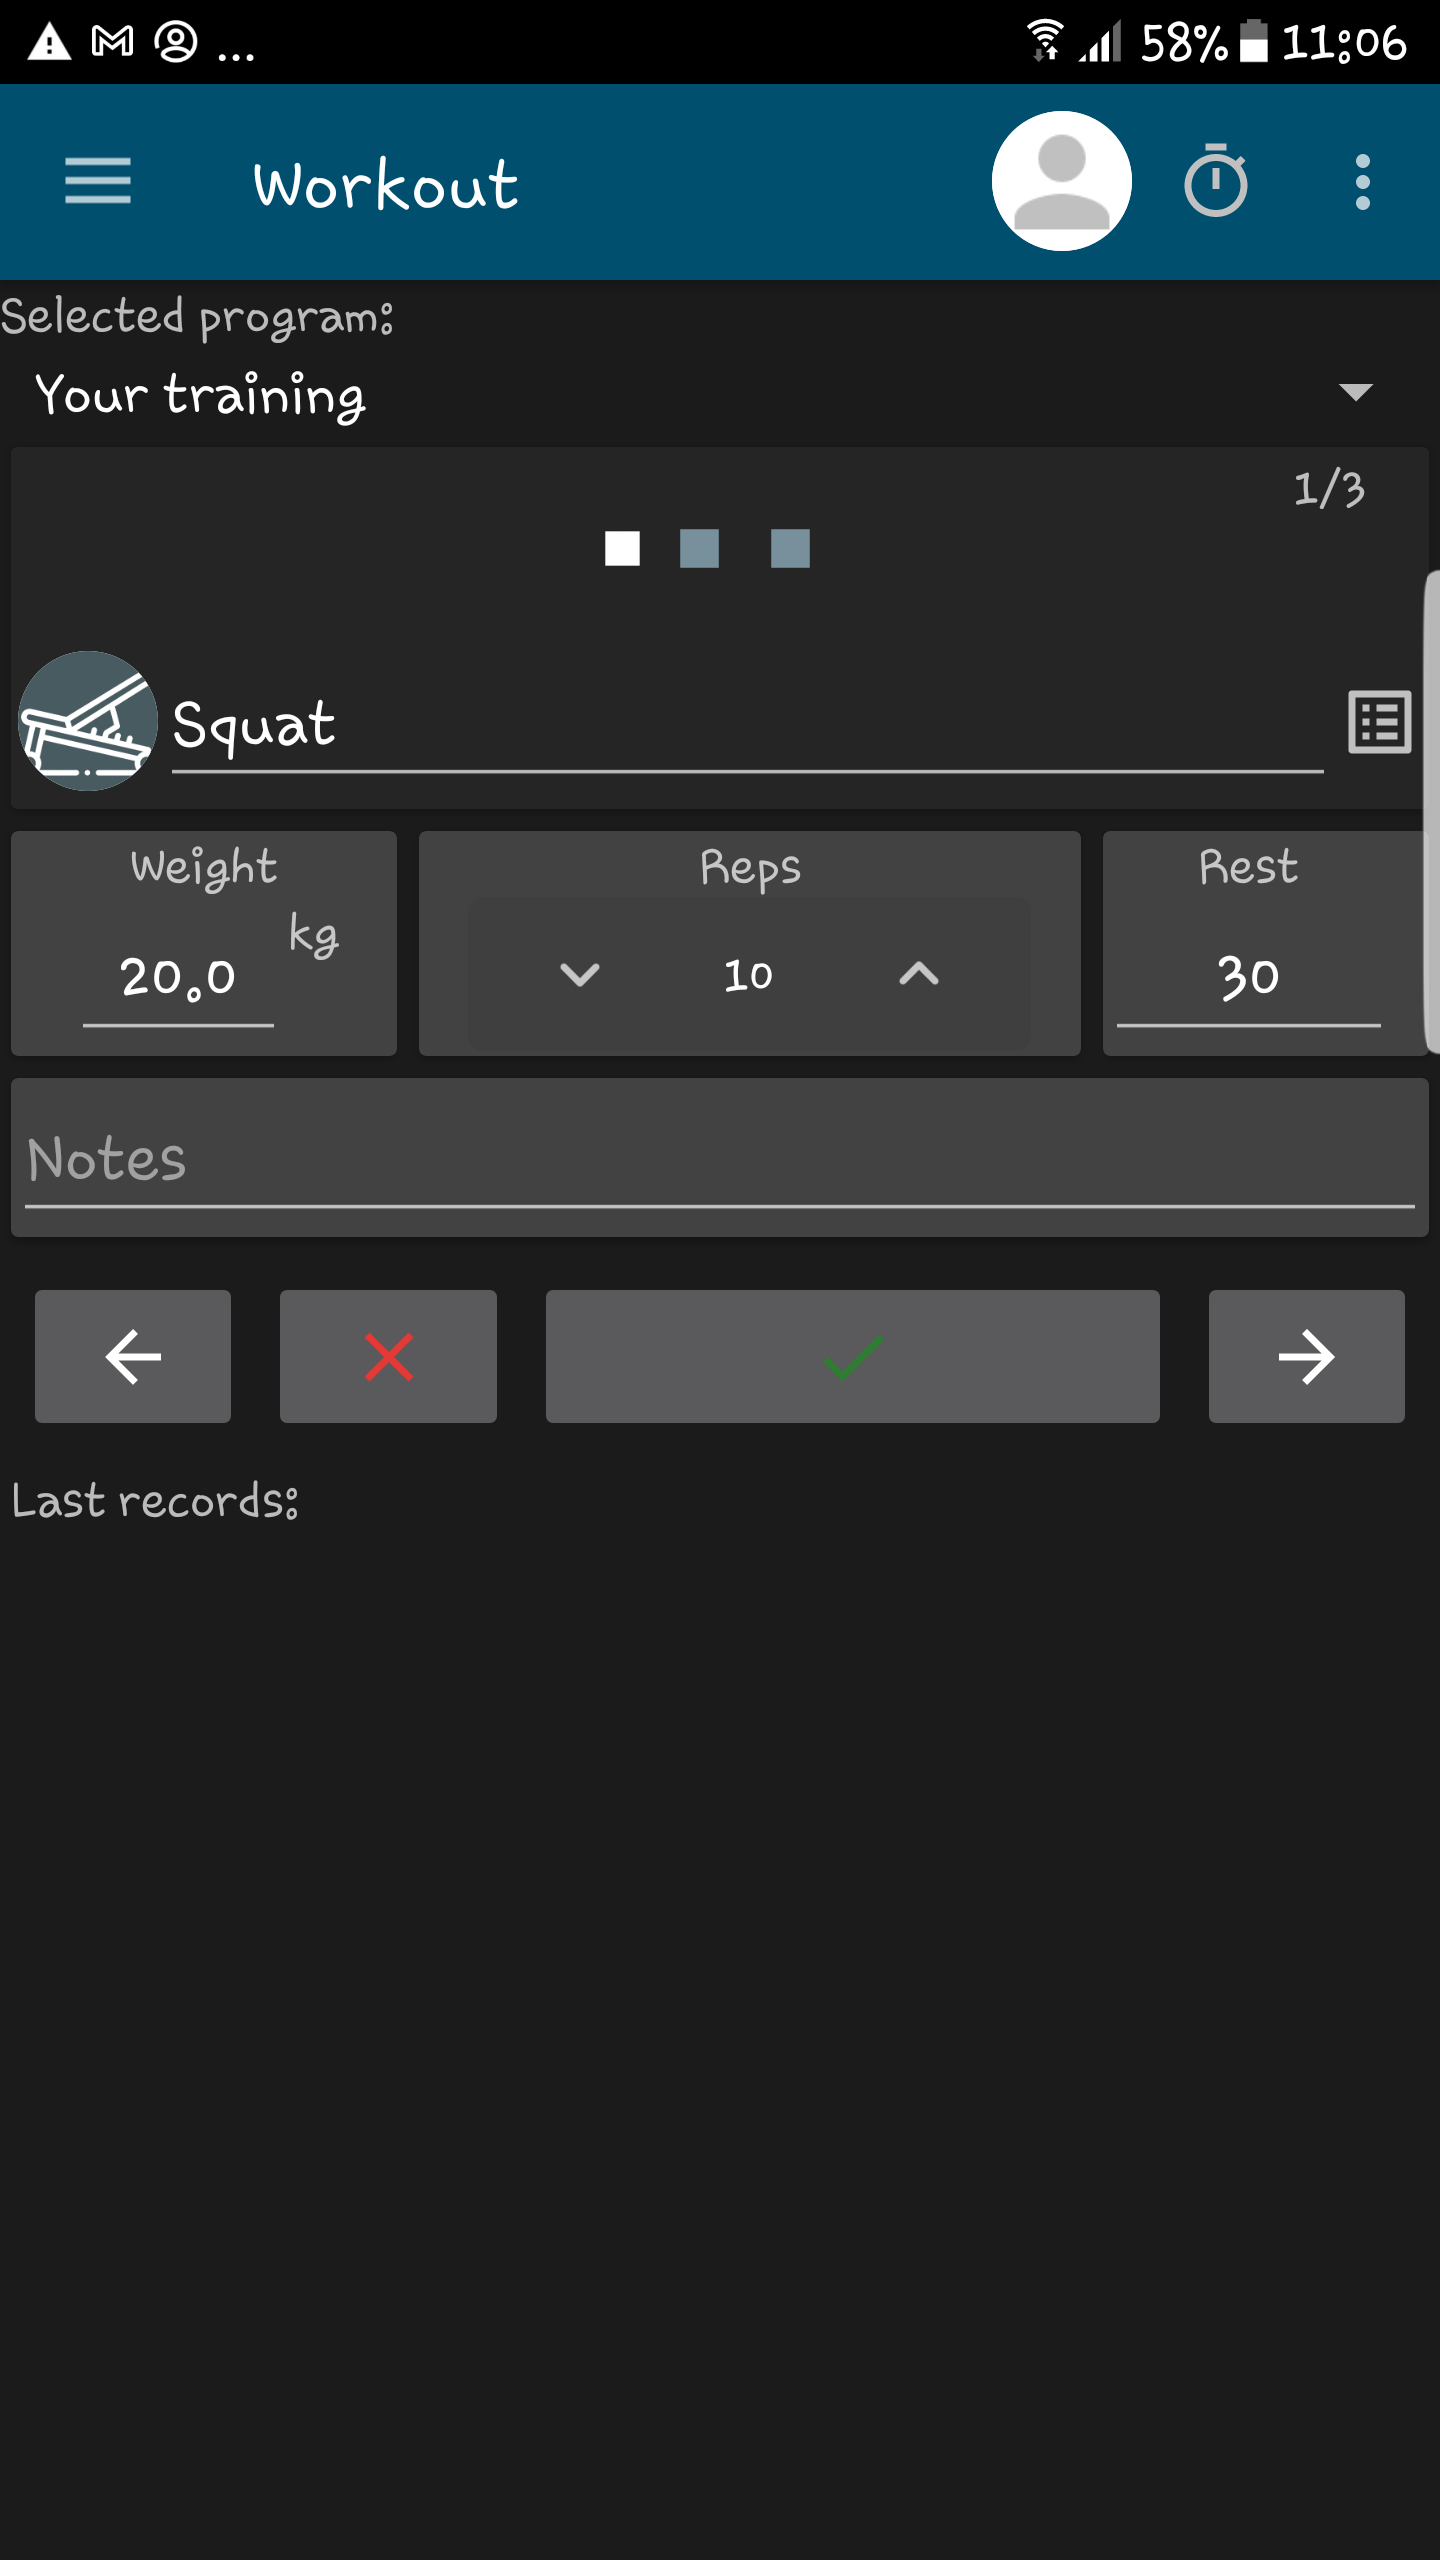
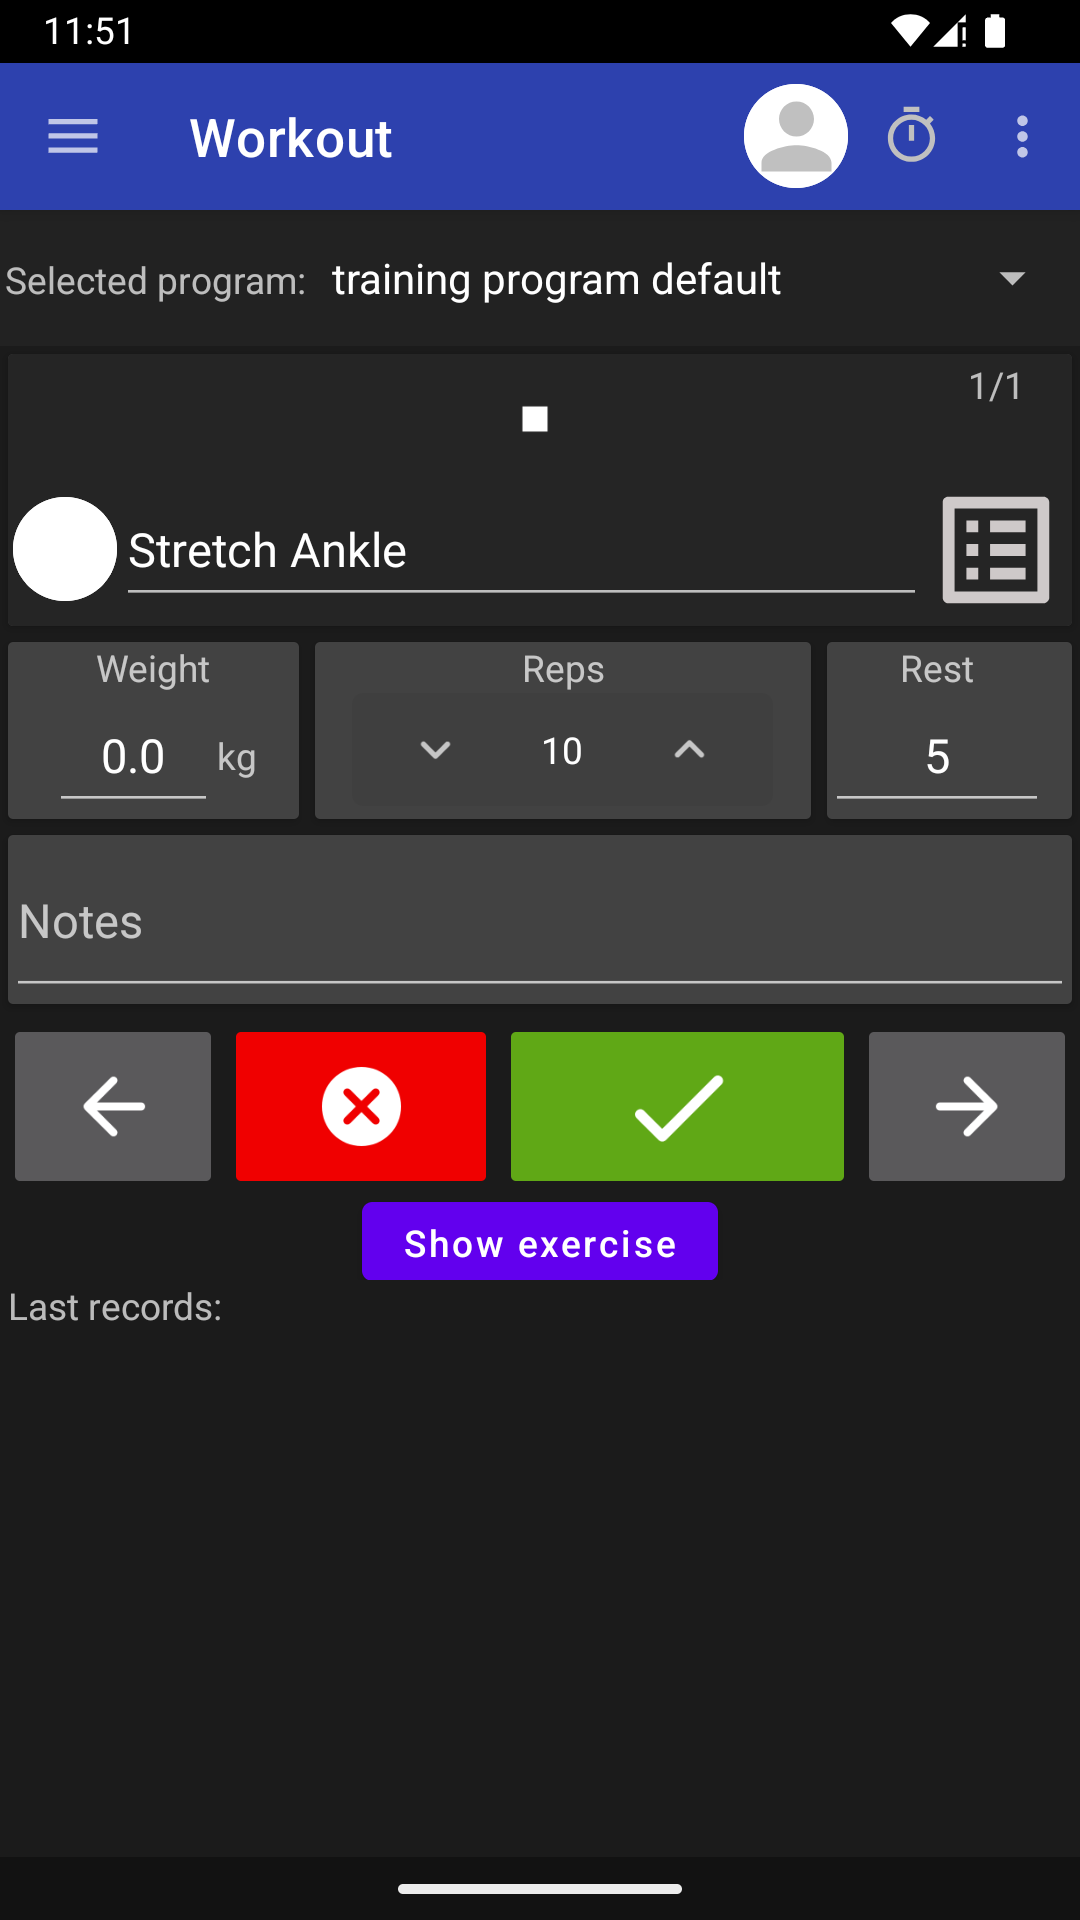
fix for video support without error messages

diff --git a/app/src/main/java/com/easyfitness/programs/ProgramRunner.kt b/app/src/main/java/com/easyfitness/programs/ProgramRunner.kt
@@ -430,6 +430,12 @@ class ProgramRunner : Fragment(R.layout.tab_program_runner) {
         when (val state = hostState.currentState) {
             is YouTubePlayerState.Error -> {
 //                Text(text = "Error: ${state.message}")
+                KToast.infoToast(
+                    requireActivity(),
+                    "State error:${state.message}",
+                    Gravity.BOTTOM,
+                    KToast.LENGTH_SHORT
+                )
             }
 
             YouTubePlayerState.Idle -> {
